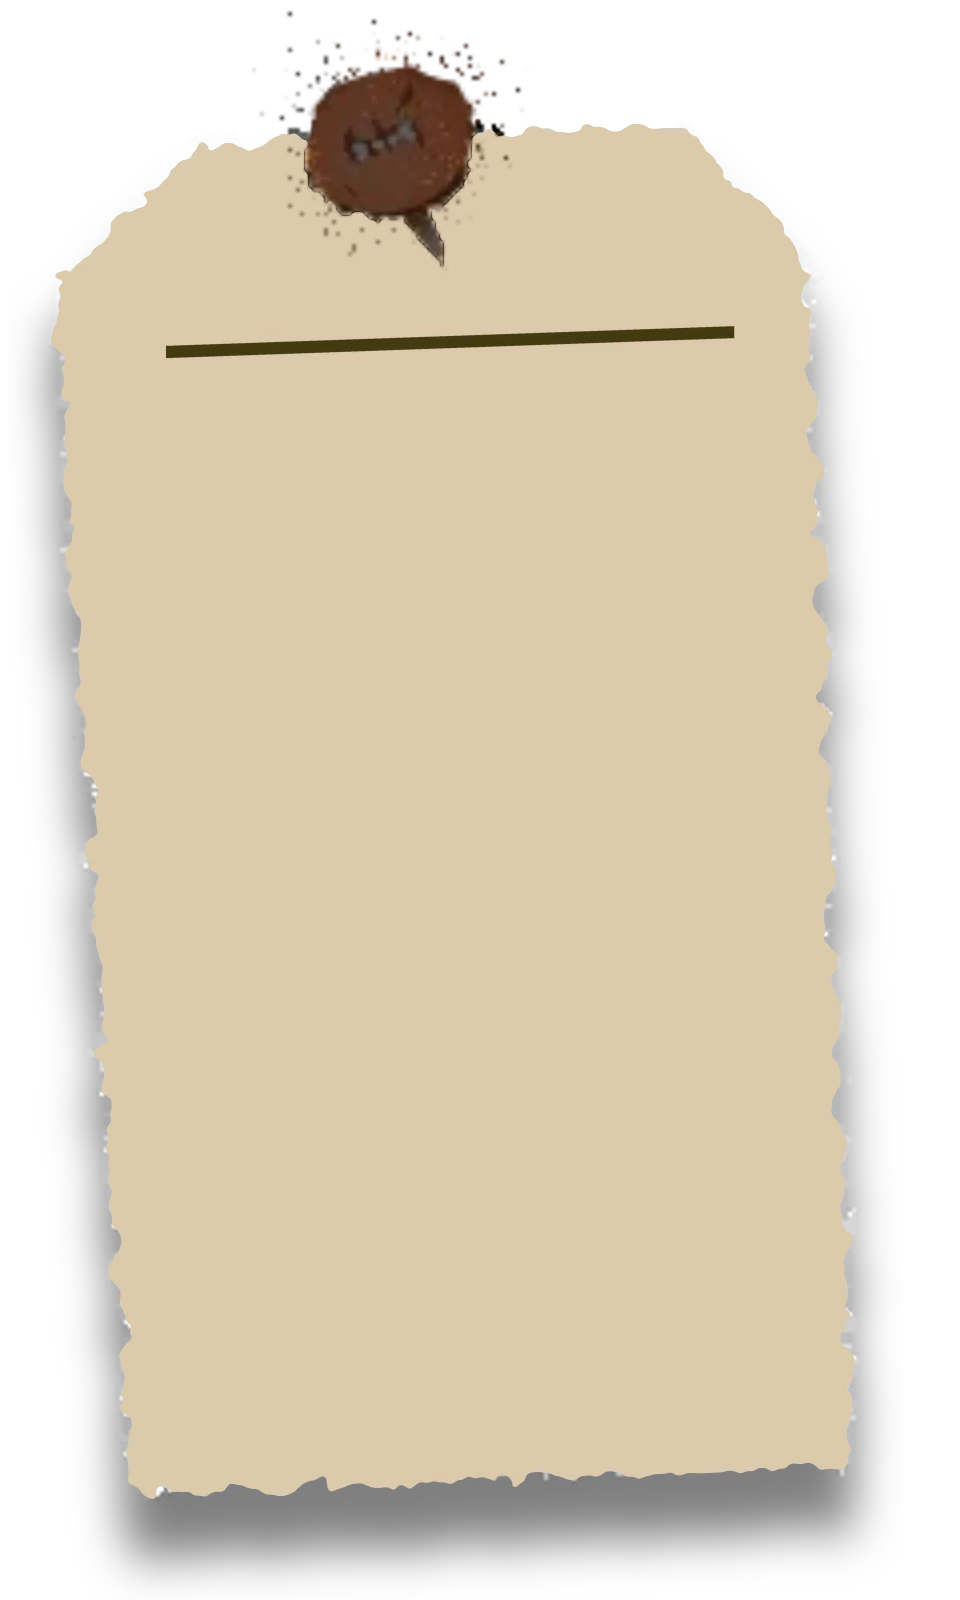
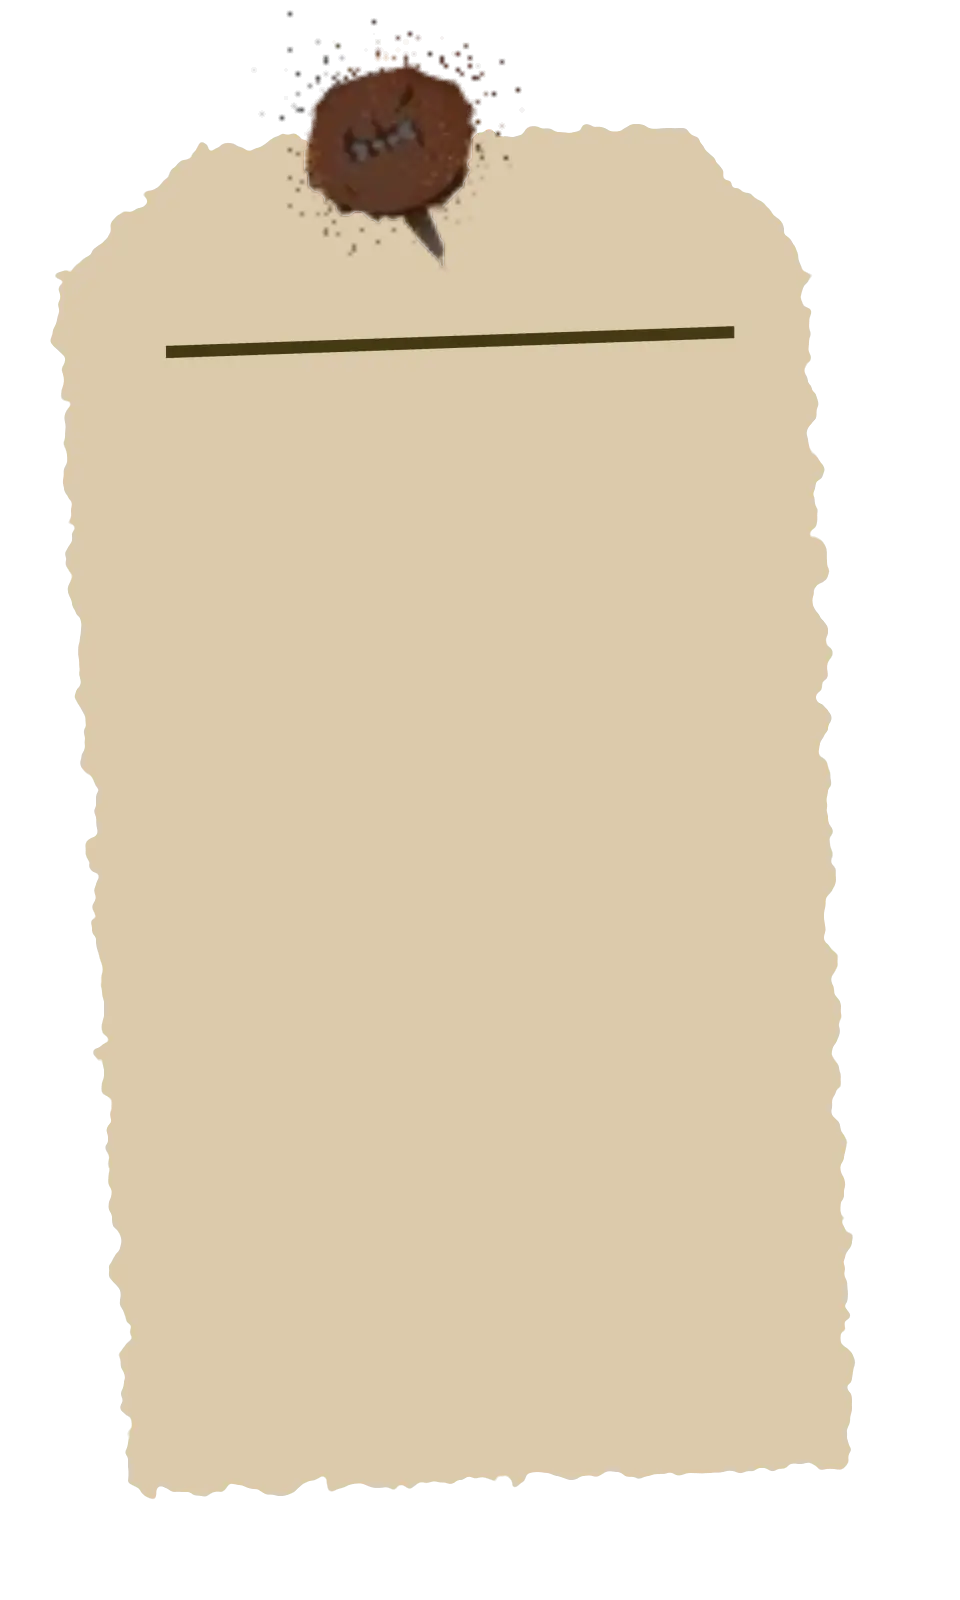
Address travel tags QA
- Requirement tags: allow "Hack<wbr>Illinois" to break, inside a span so
  the li stays a single flex item. The break is only enabled at 701-740px
  (the narrowest desktop cards); wider, the name fits on its own line and
  an active <wbr> would split it greedily.
- Warning plank: crop the art to its wood face (980x107) and keep its
  aspect ratio (aspect-ratio min height, art sized to the width and
  centred, wood colour fills any extra height), so the nails no longer
  stretch at 700-900px. Text stays centred with flexbox.
- Card art: the soft drop shadow moves to its own 1x layer, so the 4x
  card has only crisp alpha and compresses to 20KB (was 52KB); a 480px
  variant (13KB) is used under the mobile breakpoint.

Changed region(s): [[0.0312, 0.1875, 0.9375, 1.0], [0.4688, 0.0625, 0.5312, 0.0938], [0.3125, 0.0625, 0.3438, 0.0938]]

diff --git a/app/travel/styles.module.scss b/app/travel/styles.module.scss
@@ -131,13 +131,33 @@
         // match; the extra 0.5% compensates for the slanted script ink.
         padding: 23% 19.5% 40% 12.5%;
         color: #40390e;
-        background: url("/travel/frontier/paper/requirement-card.webp") center /
-            100% 100% no-repeat;
+        // Card art plus its soft drop shadow, shipped as a separate 1x layer
+        // (a soft alpha gradient is expensive in the 4x card file).
+        background:
+            url("/travel/frontier/paper/requirement-card.webp") center / 100%
+                100% no-repeat,
+            url("/travel/frontier/paper/requirement-card-shadow.webp") center /
+                100% 100% no-repeat;
         font:
             500 clamp(19px, 2.1vw, 34px)/1.2 "Travel Hand",
             cursive;
         text-align: center;
         transition: transform 160ms ease;
+        // The span keeps the text one flex item around its <wbr>; the global
+        // `*` font-family rule would otherwise reset its font.
+        span {
+            font: inherit;
+        }
+        // "Hack<wbr>Illinois" may only split where the cards are narrowest
+        // (just above the mobile layout). Elsewhere the name fits on a line by
+        // itself, and an active <wbr> would split it greedily ("attend Hack /
+        // Illinois").
+        wbr {
+            display: none;
+            @media (min-width: 701px) and (max-width: 740px) {
+                display: inline;
+            }
+        }
         // Wax seal, drawn as a vector over the card (viewBox 82 272 76 76 of
         // the 240 × 400 card) so it stays sharp at any size.
         &::after {
@@ -174,14 +194,16 @@
     font-size: clamp(14px, 1.39vw, 22px);
     line-height: 1.5;
     text-align: center;
-    // Keeps the box close to the art's wood-face proportions (980 × 107) so the
-    // nails aren't stretched.
-    padding: 1.6vw 6%;
-    // The plank art's bottom 18 of 125 rows are its drop shadow; scale it so the
-    // wood face (rows 0-107) fills the box and the text centres on the wood.
-    // The box-shadow below stands in for the clipped art shadow.
-    background: #40270f url("/travel/frontier/panels/warning-plank.webp") center
-        top / 100% calc(100% * 125 / 107) no-repeat;
+    // The plank art (wood face only, 980 × 107) keeps its aspect ratio: the box
+    // is at least that tall, and when the text needs more room the art stays
+    // centred and the wood colour fills the rest, so the nails never stretch.
+    display: flex;
+    align-items: center;
+    justify-content: center;
+    aspect-ratio: 980 / 107;
+    padding: 0.8vw 6%;
+    background: #40270f url("/travel/frontier/panels/warning-plank.webp")
+        center / 100% auto no-repeat;
     box-shadow: 0 4px 5px #28150880;
 }
 .details {
@@ -265,9 +287,13 @@
             aspect-ratio: 0.53;
             font-size: clamp(12px, 3.4vw, 22px);
             padding: 28% 16% 42% 10.5%;
+            background-image:
+                url("/travel/frontier/paper/requirement-card-sm.webp"),
+                url("/travel/frontier/paper/requirement-card-shadow.webp");
         }
     }
     .warning {
+        aspect-ratio: auto;
         background-image: none;
         padding: 16px 10px;
         font-size: 14px;

diff --git a/app/travel/page.tsx b/app/travel/page.tsx
@@ -43,8 +43,20 @@ export default function TravelPage() {
                     className={styles.requirements}
                     aria-label="Reimbursement requirements"
                 >
-                    <li>RSVP &quot;Yes&quot; to attend HackIllinois</li>
-                    <li>Attend HackIllinois in person</li>
+                    <li>
+                        <span>
+                            RSVP &quot;Yes&quot; to attend Hack
+                            <wbr />
+                            Illinois
+                        </span>
+                    </li>
+                    <li>
+                        <span>
+                            Attend Hack
+                            <wbr />
+                            Illinois in person
+                        </span>
+                    </li>
                     <li>Submit a qualifying project</li>
                 </ol>
                 <p className={styles.warning}>

diff --git a/saved-results/travel-artwork.md b/saved-results/travel-artwork.md
@@ -12,22 +12,24 @@ All assets below were extracted from the actual Figma layers. No generated illus
 
 Paths are relative to `public/travel/frontier/`. Crop values are `x y width height` in the original frame.
 
-| File                             | Dimensions  | Bytes  | Source layers / crop                                                                                  |
-| -------------------------------- | ----------- | ------ | ----------------------------------------------------------------------------------------------------- |
-| scene/scene.webp                 | 1440 × 3132 | 608592 | Desktop root children, excluding menu bar, Travel Information, Group 711, Ticket, Nail_3. Full frame. |
-| scene/scene-mobile.webp          | 402 × 2420  | 154904 | Mobile root children, excluding Group 573, Group 574, Travel Information, Group 719. Full frame.      |
-| board/board.webp                 | 1225 × 2112 | 62762  | Group 619; `115 1020 1225 2112`                                                                       |
-| board/crest.webp                 | 910 × 290   | 18324  | Group 619; `270 1020 910 290`                                                                         |
-| board/board-body.webp            | 1225 × 1900 | 44476  | Group 619; `115 1208 1225 1900`                                                                       |
-| board/mobile/board-mobile.webp   | 378 × 1530  | 25076  | Mobile sign-base; `15 890 378 1530`                                                                   |
-| panels/intro-plank.webp          | 980 × 330   | 4604   | Rectangle 1130 and Group 678/680/681/682; `240 1435 980 330`                                          |
-| panels/warning-plank.webp        | 980 × 125   | 3890   | Group 710, text removed; `240 2180 980 125`                                                           |
-| paper/requirement-card.webp      | 960 × 1600  | 52454  | Rebuilt at 4× from the 240 × 400 crop of Group 702 + Group 707 nail; seal removed (see below)         |
-| paper/requirement-seal.svg       | vector      | 2681   | Group 575 seal traced from the 240 × 400 crop; viewBox `82 272 76 76` in card pixels                  |
-| paper/map-paper.webp             | 535 × 420   | 61044  | Group 675 and nail; `240 2340 535 420`                                                                |
-| ticket/international-ticket.webp | 200 × 160   | 6364   | Ticket + Nail_3, text removed; `690 2560 200 160`                                                     |
+| File                               | Dimensions  | Bytes  | Source layers / crop                                                                                  |
+| ---------------------------------- | ----------- | ------ | ----------------------------------------------------------------------------------------------------- |
+| scene/scene.webp                   | 1440 × 3132 | 608592 | Desktop root children, excluding menu bar, Travel Information, Group 711, Ticket, Nail_3. Full frame. |
+| scene/scene-mobile.webp            | 402 × 2420  | 154904 | Mobile root children, excluding Group 573, Group 574, Travel Information, Group 719. Full frame.      |
+| board/board.webp                   | 1225 × 2112 | 62762  | Group 619; `115 1020 1225 2112`                                                                       |
+| board/crest.webp                   | 910 × 290   | 18324  | Group 619; `270 1020 910 290`                                                                         |
+| board/board-body.webp              | 1225 × 1900 | 44476  | Group 619; `115 1208 1225 1900`                                                                       |
+| board/mobile/board-mobile.webp     | 378 × 1530  | 25076  | Mobile sign-base; `15 890 378 1530`                                                                   |
+| panels/intro-plank.webp            | 980 × 330   | 4604   | Rectangle 1130 and Group 678/680/681/682; `240 1435 980 330`                                          |
+| panels/warning-plank.webp          | 980 × 107   | 3694   | Group 710, text removed; `240 2180 980 125`, cropped to the wood face (shadow rows 107-125 dropped)   |
+| paper/requirement-card.webp        | 960 × 1600  | 20420  | Rebuilt at 4× from the 240 × 400 crop of Group 702 + Group 707 nail; seal and shadow removed (below)  |
+| paper/requirement-card-sm.webp     | 480 × 800   | 13364  | Same, downscaled for the mobile layout                                                                |
+| paper/requirement-card-shadow.webp | 240 × 400   | 5086   | The card's original soft drop shadow (black + alpha), drawn under the card                            |
+| paper/requirement-seal.svg         | vector      | 2681   | Group 575 seal traced from the 240 × 400 crop; viewBox `82 272 76 76` in card pixels                  |
+| paper/map-paper.webp               | 535 × 420   | 61044  | Group 675 and nail; `240 2340 535 420`                                                                |
+| ticket/international-ticket.webp   | 200 × 160   | 6364   | Ticket + Nail_3, text removed; `690 2560 200 160`                                                     |
 
-**Requirement card rebuild (2026-11-24):** the 240 × 400 card blurred when scaled up, most visibly the wax seal. The Figma file was not accessible and no higher-resolution export was found, so the card was rebuilt from the 240 × 400 raster: the flat paper from its own silhouette (re-thresholded at 4× for a crisp torn edge), the original soft shadow upscaled, the rule line redrawn from a fitted stroke (same position, thickness and colour), and the nail lifted off the paper and upscaled. The seal was removed from the card and traced as an SVG from the same raster (outline radii, ring centre/radii, emblem rectangles and colours all sampled), placed over the card in CSS.
+**Requirement card rebuild (2026-11-24):** the 240 × 400 card blurred when scaled up, most visibly the wax seal. The Figma file was not accessible and no higher-resolution export was found, so the card was rebuilt from the 240 × 400 raster: the flat paper from its own silhouette (re-thresholded at 4× for a crisp torn edge), the rule line redrawn from a fitted stroke (same position, thickness and colour), and the nail lifted off the paper and upscaled. The original soft shadow ships as its own 1× layer (a soft alpha gradient is expensive in the 4× file); the card WebPs use `cwebp -q 70 -alpha_q 60 -alpha_filter best -m 6 -sharp_yuv`, the shadow is lossless. The seal was removed from the card and traced as an SVG from the same raster (outline radii, ring centre/radii, emblem rectangles and colours all sampled), placed over the card in CSS.
 
 The ticket artwork already has approximately 23 degrees of clockwise rotation. The requirement card's text area is between its top rule and bottom wax seal. The crest includes a narrow strip of board underneath, so it can overlap the board body naturally. The full board and mobile board are used by the page. The separately extracted crest and board-body alternatives listed above were removed from the final PR because they are unused.
 
